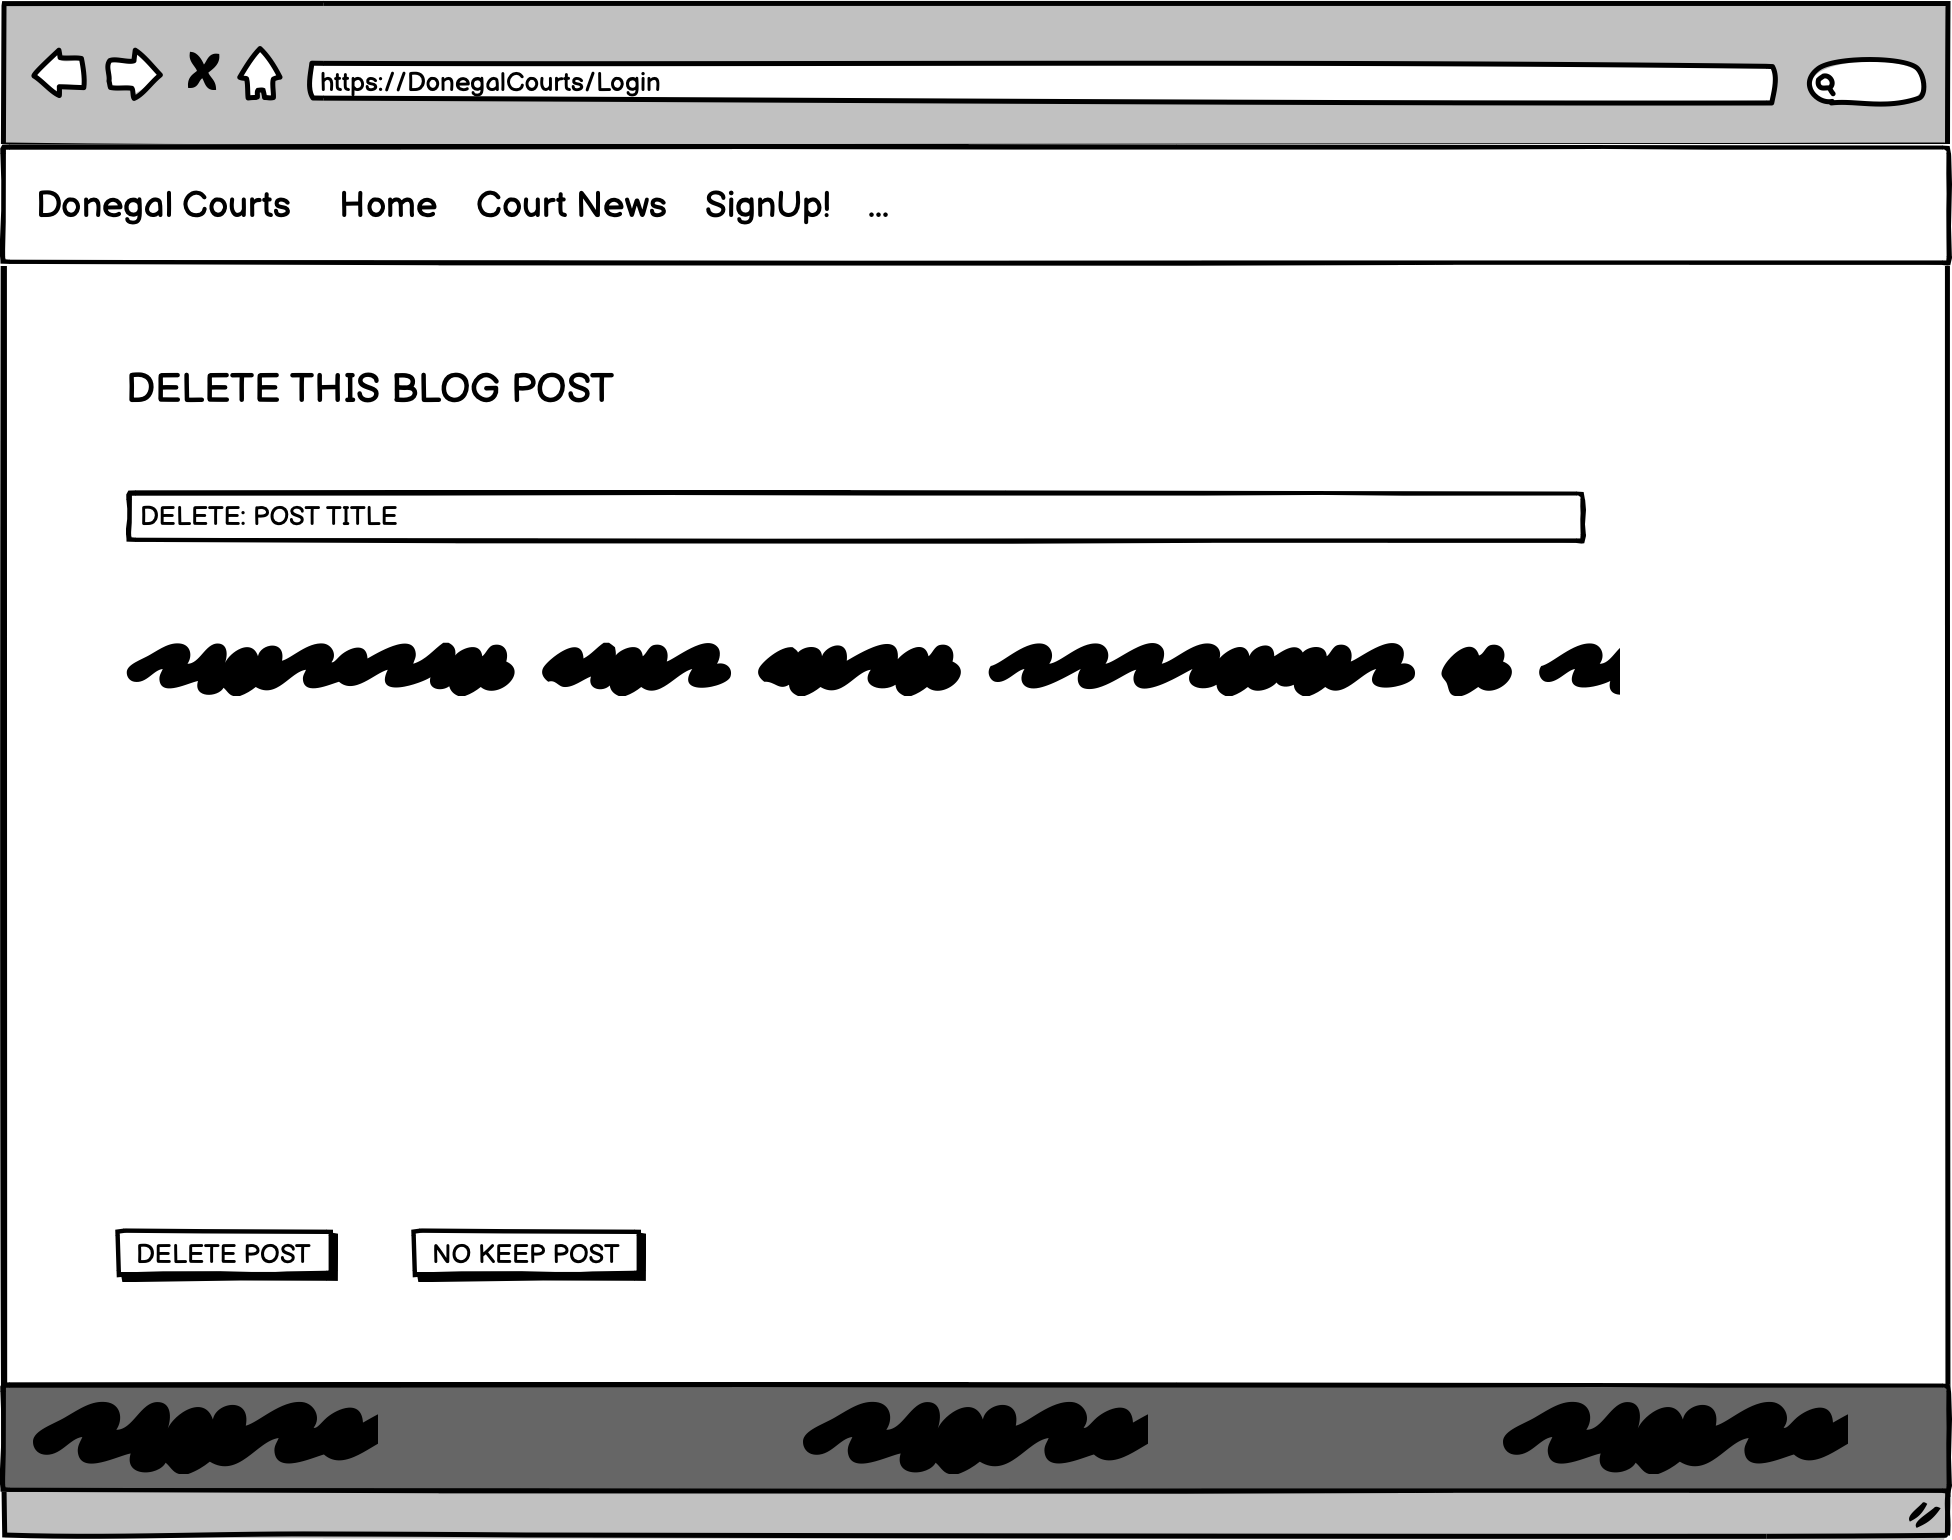
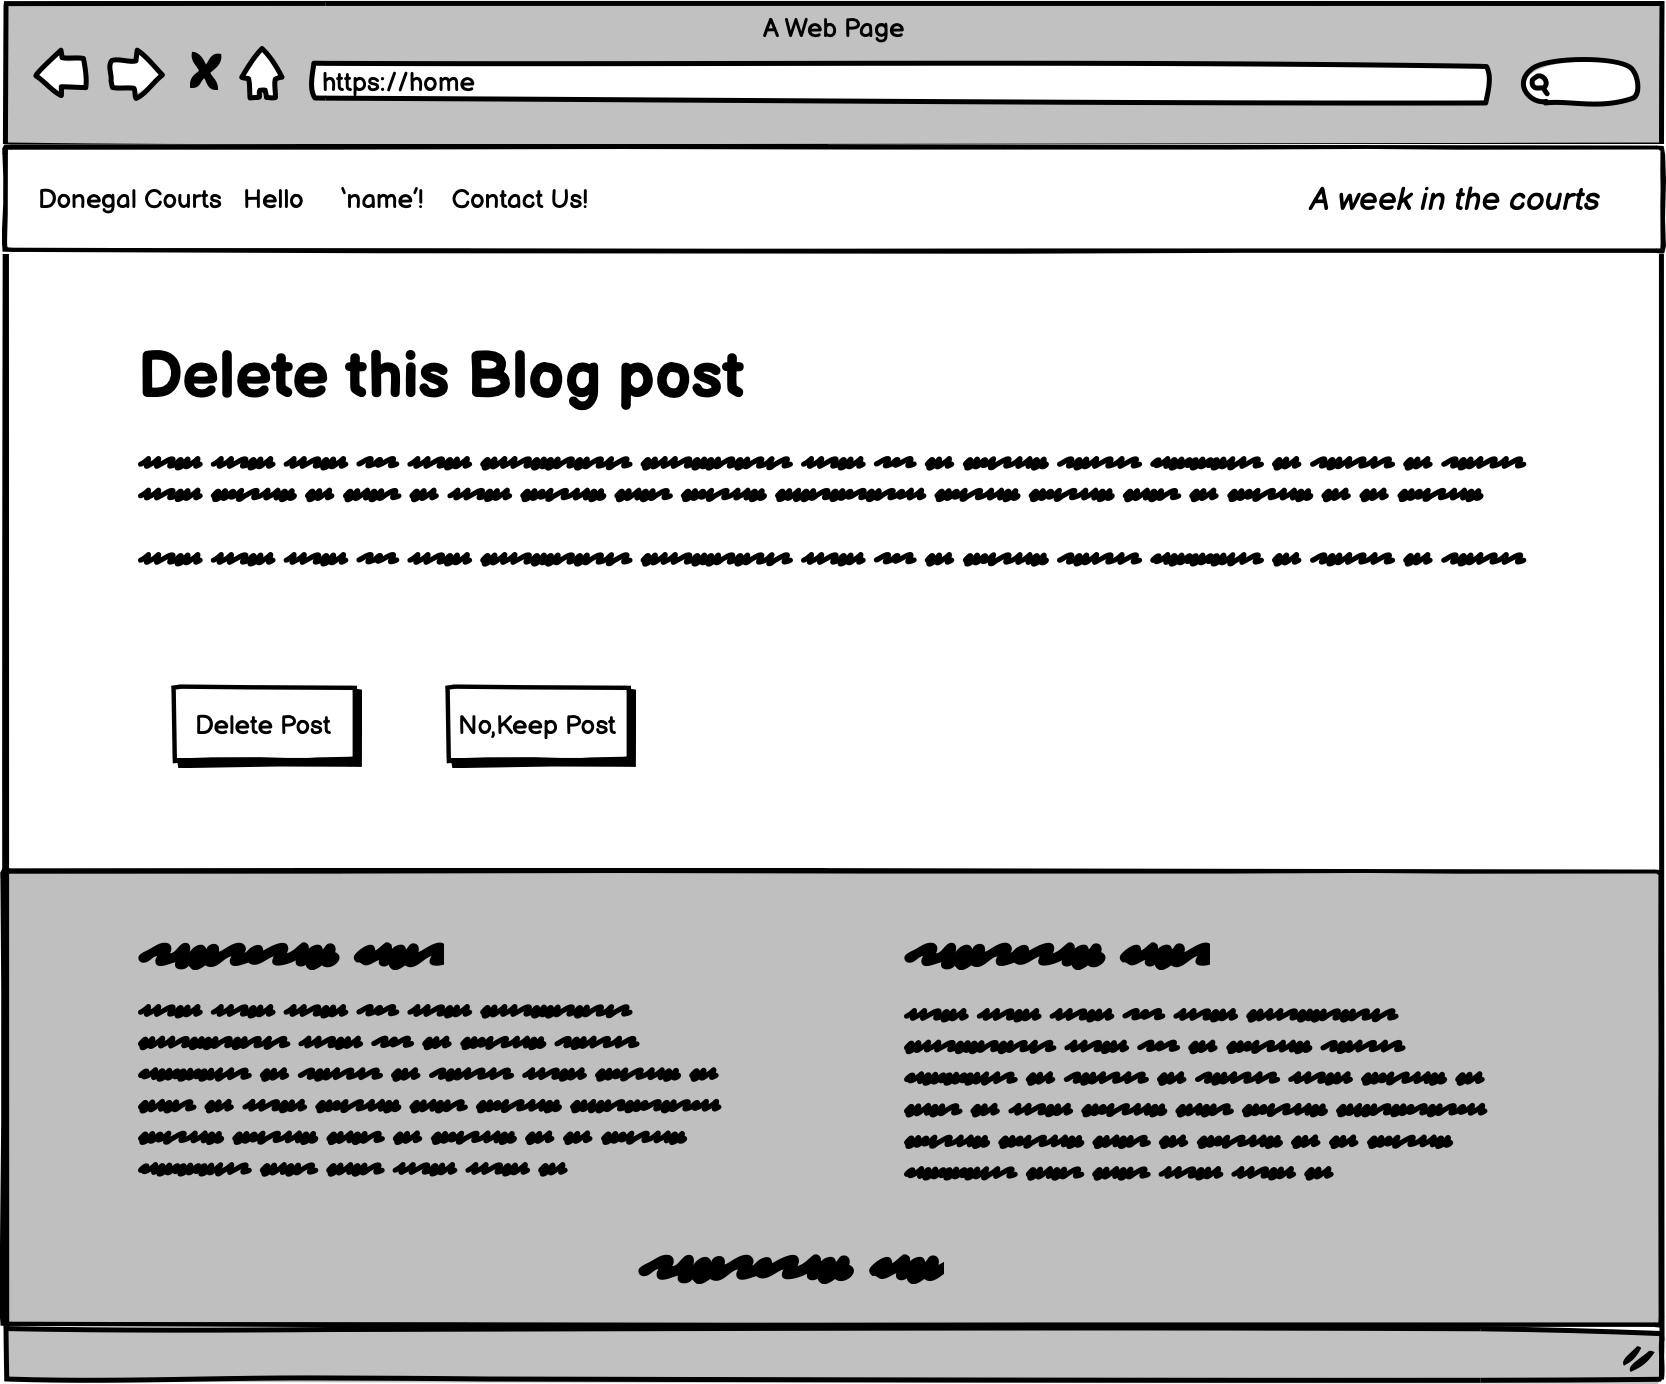
Add updated wireframes to readme

diff --git a/README.md b/README.md
@@ -135,7 +135,7 @@
         <img src="docs/wireframes/home.png"></details>
 
 <details><summary>Home Page: Membership Option</summary>
-        <img src="docs/wireframes/home-member.png"></details>
+        <img src="docs/wireframes/home-members.png"></details>
 
 <details><summary>Login</summary>
         <img src="docs/wireframes/login.png"></details>
@@ -144,19 +144,28 @@
         <img src="docs/wireframes/register.png"></details>
 
 <details><summary>Home page: Loggined-In User</summary>
-        <img src="docs/wireframes/home-logged-in-user.png"></details>
+        <img src="docs/wireframes/home-logged-in.png"></details>
 
 <details><summary>Blog Post</summary>
-        <img src="docs/wireframes/blog-post.png"></details>
+        <img src="docs/wireframes/posts.png"></details>
 
-<details><summary>Blog Post: Edit</summary>
-            <img src="docs/wireframes/update-post.png"></details>
+<details><summary>Comments</summary>
+        <img src="docs/wireframes/comment.png"></details>
+
+<details><summary>Blog Post: Edit (Only admin View)</summary>
+            <img src="docs/wireframes/edit-post.png"></details>
+
+<details><summary>Blog Post: Delete (Only admin View)</summary>
+            <img src="docs/wireframes/delete-post.png"></details>
 
 <details><summary>Blog Post: Delete</summary>
             <img src="docs/wireframes/delete-post.png"></details>
 
-<details><summary>Blog Post: Create</summary>
-            <img src="docs/wireframes/create-post.png"></details>
+<details><summary>User Profile</summary>
+            <img src="docs/wireframes/user-profile.png"></details>
+
+<details><summary>Contact Page</summary>
+            <img src="docs/wireframes/contact-page.png"></details>
 
         
 
